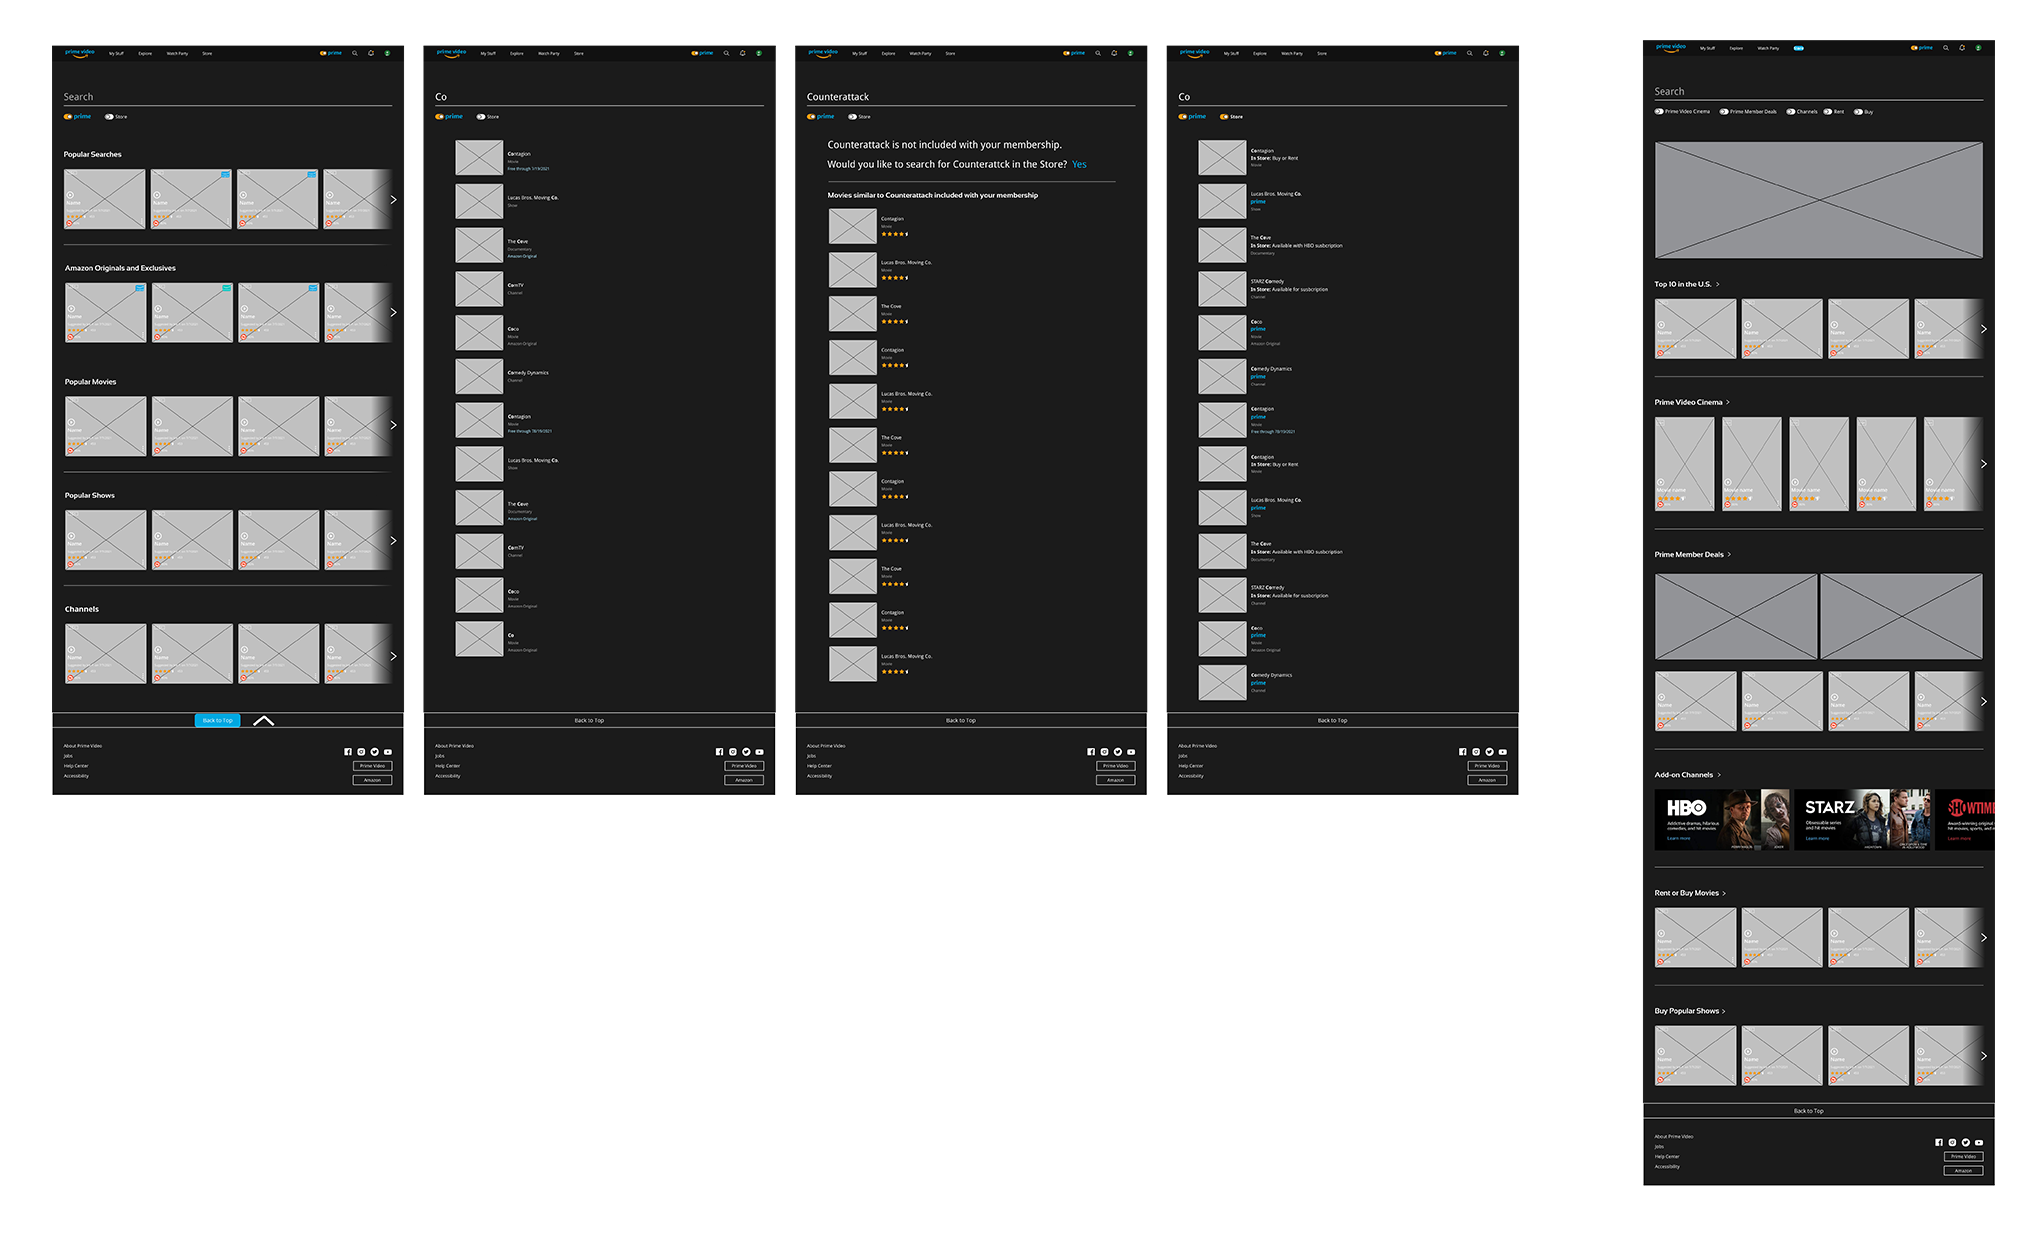
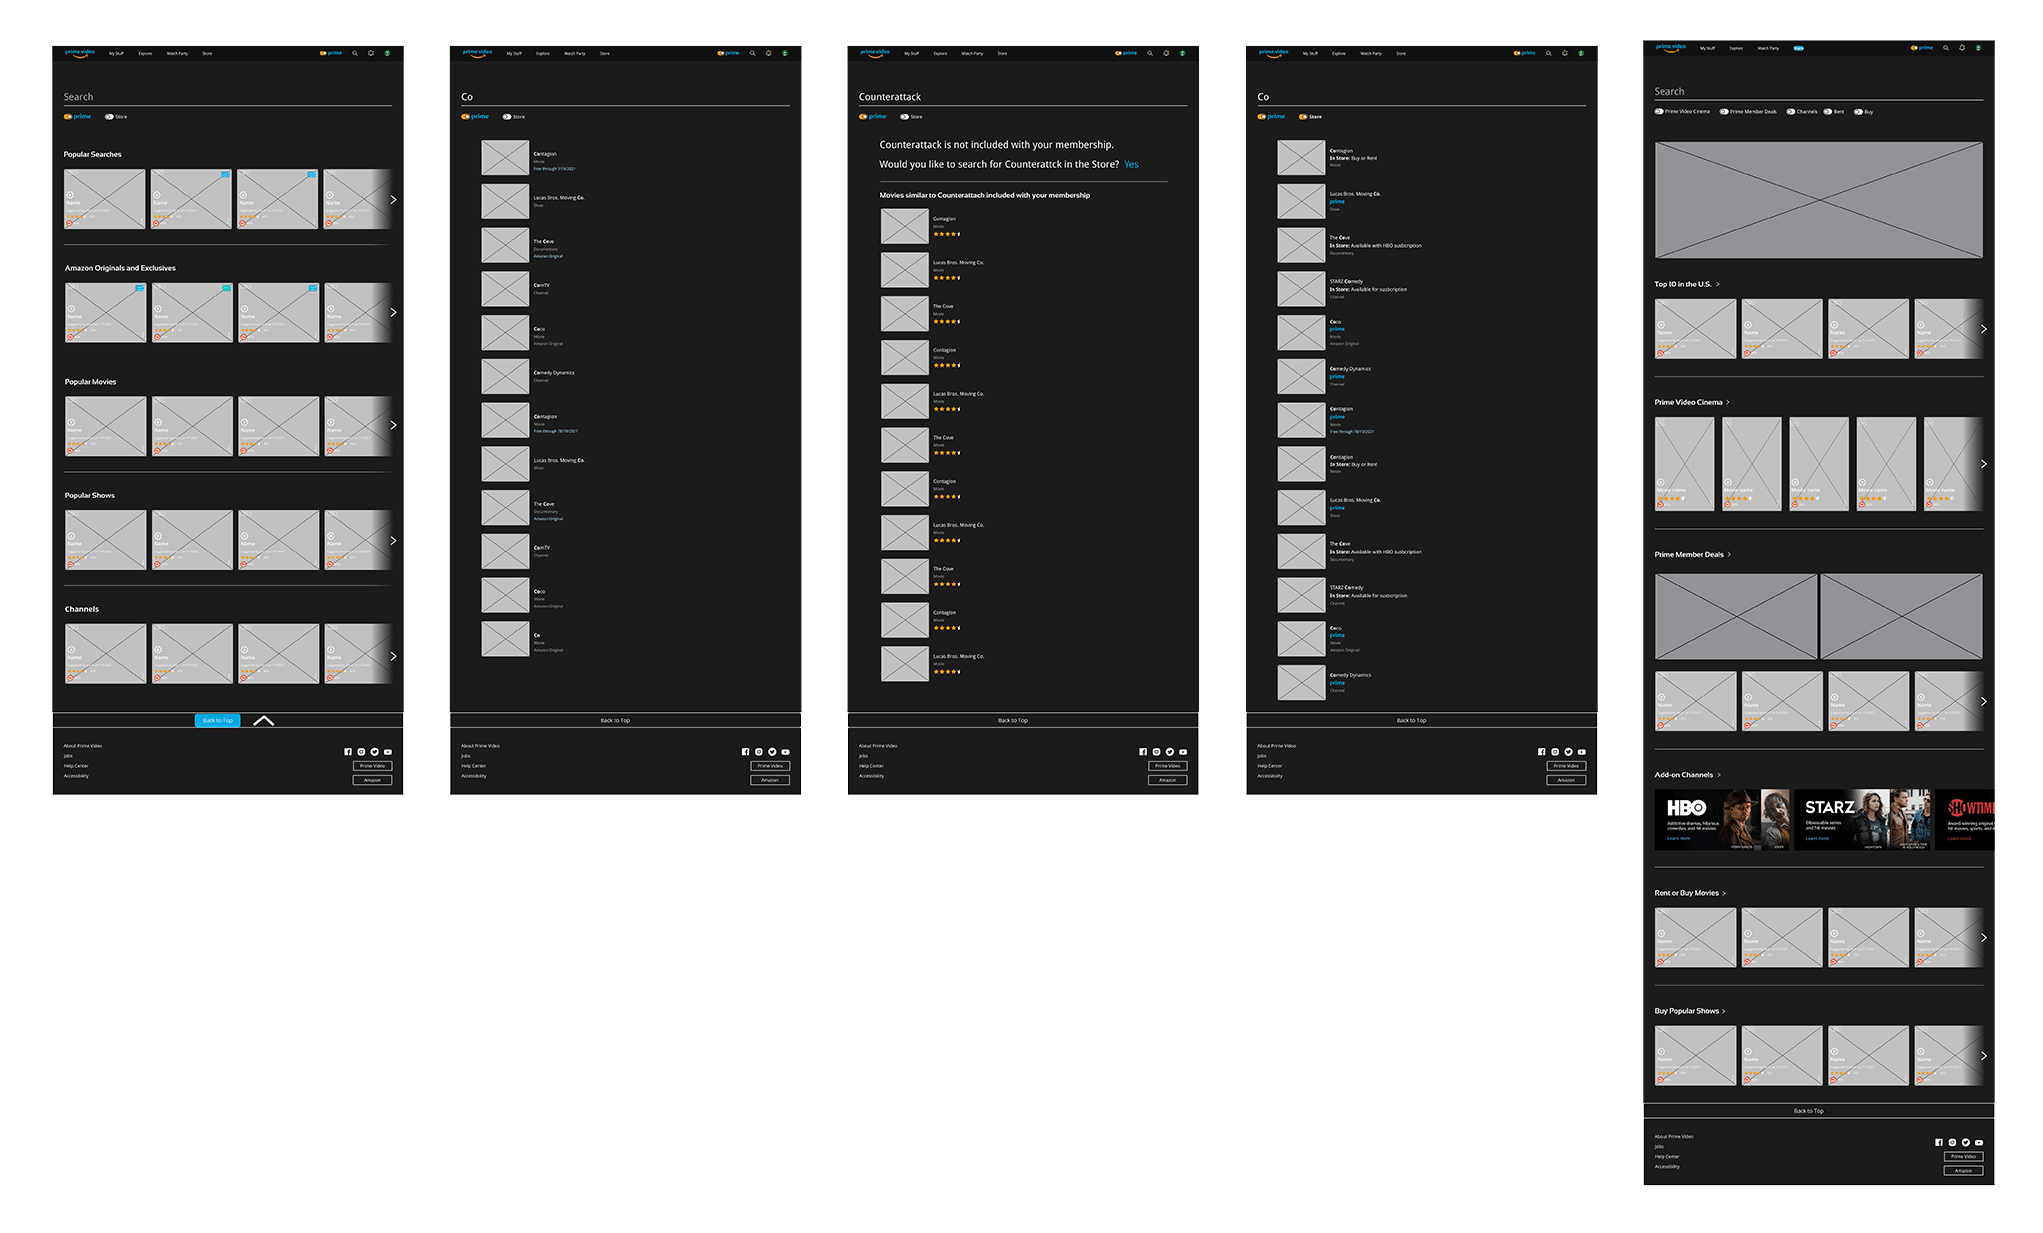
Made backgrounds of images transparent for APV

Changed region(s): [[0.3392, 0.0308, 0.6784, 0.6472], [0.185, 0.0308, 0.2775, 0.6472], [0.7093, 0.0308, 0.8018, 0.6472]]

diff --git a/case-studies/amazon/index.html b/case-studies/amazon/index.html
@@ -614,7 +614,7 @@
               We sketched a homepage to ideate this page's information architecture and rhythm. Likewise, this sketch above served to conceive iconography and interactions
             </div>
             <div class="row">
-              <picture> <img class="img-fluid modal-img" src = "img/searchstore.jpg" loading=lazy> </picture>
+              <picture> <img class="img-fluid modal-img" src = "img/searchstore.png" loading=lazy> </picture>
             </div>
             <div class="row mb-2">
               <div class= "tm-content-subheading">
@@ -873,7 +873,7 @@
                     <strong>High Fidelity Wireframes</strong> 
                   </div>
             <div class="row">
-              <picture> <img class="img-fluid modal-img" src = "img/hifi.jpg" loading=lazy> </picture>
+              <picture> <img class="img-fluid modal-img" src = "img/hifi.png" loading=lazy> </picture>
             </div>
             <div class="row mb-4">
               <div class='mx-0 my-2 px-0 col-12'>
